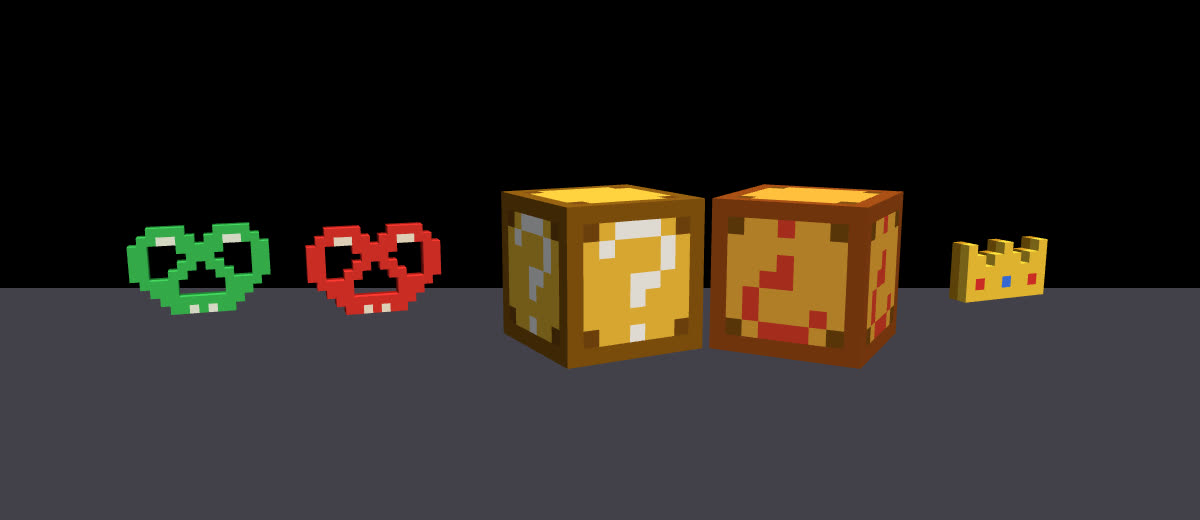
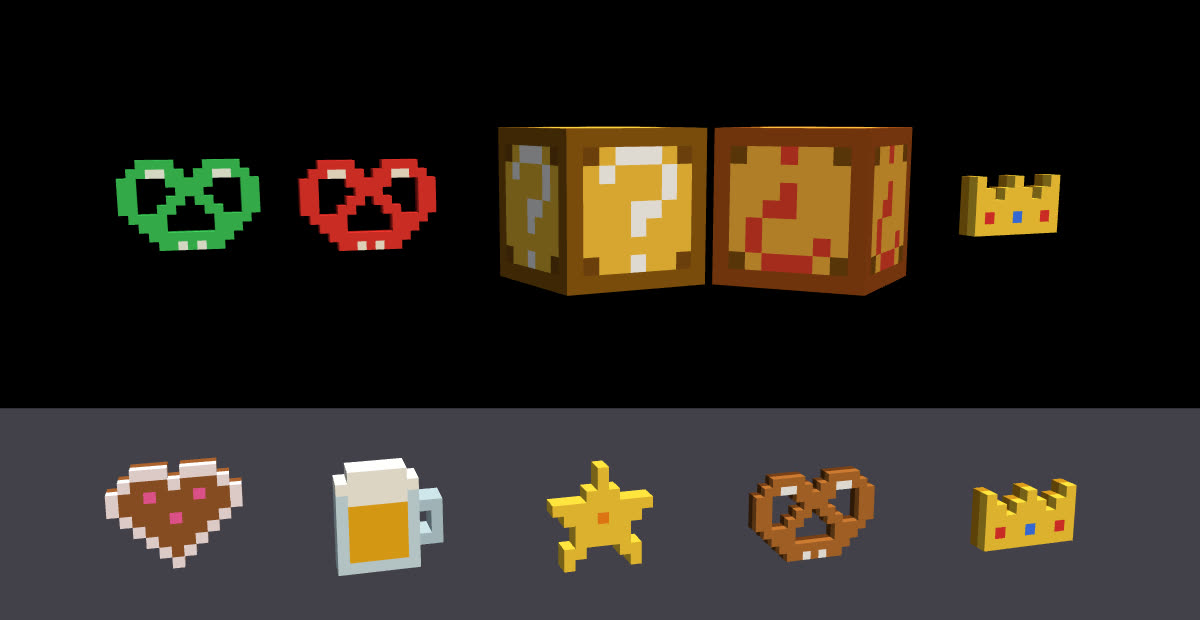
Runde 66 (Teil 1): Brezn-Orbits online, Voxel-Aufsaetze, Gluecksbrezn des Tages
- Kreisende Brezn reisen in den Kart-Flags mit; Treffer prueft jeder fuer seine eigenen Karts
- Aufsaetze (Lebkuchenherz, Masskrug, Riesenbrezn, Pixel-Stern, Pixel-Krone) freischaltbar, im Menue waehlbar, online sichtbar
- Gluecksbrezn: einmal am Tag XP im Menue aufbrechen (Pixel-Brezn, Konfetti, Chip-Klang)
- Arena-Items um Brezn-Trio und Fake-Block erweitert, Krone gecacht, Hinweise im Menue ueber der Karte

Claude-Session: https://claude.ai/code/session_01MvaaxbMKtDadD42vm4yr1j

diff --git a/game.js b/game.js
@@ -11,17 +11,17 @@ import {navPick,navRepeat,isConsole} from './padnav.mjs';
 import {createDraftState,updateDraft} from './draft.mjs';
 import {WIZARD,inSection,castInterval,pickTarget,spellPos,stepSpell,spellHits} from './wizard.mjs';
 import {weatherPlan,calmPlan,weatherMix,weatherLook,wxGrip,wxWind,forecast,lapNews} from './weather.mjs';
-import {ACH,achById,recordRace,levelOf,pickRival,rivalBeaten,dailyChallenge,dailyDone,dayKey,DAILY_XP,ONLINE_MUL,ONLINE_DAILY_XP,ONLINE_UNLOCKS,onlineNext,streakUpdate,streakIfToday,streakXP} from './progress.mjs';
+import {ACH,achById,recordRace,levelOf,pickRival,rivalBeaten,dailyChallenge,dailyDone,dayKey,DAILY_XP,ONLINE_MUL,ONLINE_DAILY_XP,ONLINE_UNLOCKS,onlineNext,streakUpdate,streakIfToday,streakXP,TOPPERS,topperById,topperUnlocked,topperHint,topperFor,luckyReward,luckyReady} from './progress.mjs';
 import {STAMP,stamperState,stamperCrushes,stamperBlocks,fireballAt,CANNON,cannonLane,missileAt} from './hazards.mjs';
 import {OW,pswitchMission,pswitchPress,pswitchCollect,pswitchTick,timeLeft,slalomMission,slalomPass,ringsMission,ringsHit,ringsLand,progressAdd} from './ow.mjs';
 import {LOOP,loopSpec,loopFrame as loopFrameAt,agravSegments,agravRoll,agravRings} from './loop.mjs';
-import {NET_VER,MAX_PLAYERS,SEND_HZ,INTERP_MS,HEARTS,BATTLE_SECS,LOBBY_SECS,LOBBY_SOLO_SECS,LOBBY_GO_SECS,voteTally,lobbyReturnAt,battleHit,battleResult,makeCode,normCode,toLocal,toGlobal,assignSlots,packKart,unpackKart,F as NF,snapBuf,pushSnap,sampleSnap} from './net.mjs';
+import {orbitOf,NET_VER,MAX_PLAYERS,SEND_HZ,INTERP_MS,HEARTS,BATTLE_SECS,LOBBY_SECS,LOBBY_SOLO_SECS,LOBBY_GO_SECS,voteTally,lobbyReturnAt,battleHit,battleResult,makeCode,normCode,toLocal,toGlobal,assignSlots,packKart,unpackKart,F as NF,snapBuf,pushSnap,sampleSnap} from './net.mjs';
 import {LB_TOP,ttBoard,lbDraft,lbSerial,lbFilter,lbParse,lbRank,lbBetter} from './lb.mjs';
 import {CH,KMH,starsFor,challengeXP,recordBest,fmt,zoneState,zoneStep,zoneResult,driftState,driftStep,driftMul,jumpState,jumpStep} from './challenge.mjs';
 import {EMOJIS,QUICK,packChat,unpackChat,chatLimiter,pushLog} from './chat.mjs';
 import {CUPS,cupTracks,cupOf,trophyKey,trophyIcon,cupById} from './cups.mjs';
 import {MUD,onMud,mudSurf,mudDodge,BOULDER,boulderState,boulderHits} from './choco.mjs';
-import {voxelMesh,breznModel,qBlockModel,crownModel} from './voxel.mjs';
+import {voxelMesh,breznModel,qBlockModel,crownModel,topperModel,BREZN,pixels} from './voxel.mjs';
 import {TSU,tsunamiPhase,tsunamiSurf,waveFront} from './tsunami.mjs';
 import {TIDE,tideLevel,tideFlooded,tideRising,tideDryFor,SURF,surfFront,surfHits,ICE,iceSurf,curlOff,BLOCK,blockScale,SENT,sentinelState,sentinelSpan,sentinelHits,sentinelNextHot} from './surface.mjs';
 import {CANNON_T,SHRINK_T,MEGA_T,INK_T,HOP_T,miniTurbo,flattenSmall,blastHit,comboStep,racer,driveKart,turnCurve,advanceProgress,hitKart,collideKarts,maxCornerSpeed,angleDiff,lap,finish,ranking,activate,clamp,LAPS,rollItem,chargesFor,orbitCount,orbitBlock,loseSpores,addGpPoints,gpStandings,raceStars,gpPoints,MAX_SPORES,PHYS,CLASSES} from './core.mjs';
@@ -251,7 +251,12 @@ const KART_COLORS=[{c:0xff3b30,n:'Ruby / Rot'},{c:0xffc400,n:'Sunny / Gelb'},{c:
  {c:0x2f8cff,n:'Blitz / Blau',lvl:2},{c:0xff7a1a,n:'Lava / Orange',lvl:3},{c:0x22c55e,n:'Wald / Grün',lvl:5},{c:0xff5fc8,n:'Bonbon / Pink',lvl:7},{c:0xeef1f6,n:'Diamant / Weiß',lvl:10},
  // R65: nur durch Online-Rennen (Anzahl Online-Rennen, progress.mjs ONLINE_UNLOCKS)
  {c:0x5aa9ff,n:'Wiesn Blau-Weiß',onl:1},{c:0xa0602a,n:'Lebkuchen',onl:3},{c:0xff66aa,n:'Pixel-Pink',onl:5}];
-const onlRaces=()=>store.get('prog',{}).onl||0,hasCrown=()=>!!store.get('prog',{}).crown;
+const onlRaces=()=>store.get('prog',{}).onl||0;let crownMine=null;const hasCrown=()=>crownMine??(crownMine=!!store.get('prog',{}).crown);
+// R66: Aufsatz (Voxel-Kosmetik) - gewaehlt im Menue, freigeschaltet durch Stufe, Serie, Online-Rennen, Online-Sieg
+const TOPPER_IDS=new Set(TOPPERS.map(t=>t.id).filter(id=>id!=='none'));
+const topperMe=()=>({level:progLevel(),streakBest:store.get('streak',{}).best||0,onl:onlRaces(),crown:hasCrown()});
+let topperMine;const myTopper=()=>topperMine!==undefined?topperMine:(topperMine=topperFor(store.get('topper',null),topperMe()));
+const topperOk=t=>typeof t==='string'&&TOPPER_IDS.has(t)?t:null;
 const progLevel=()=>levelOf(store.get('prog',{xp:0}).xp||0).level;
 // R47 Spiegel-Modus (ab Fahrerstufe 3): das Bild wird gespiegelt (auch Schilder, wie im grossen Vorbild), die Lenkung
 // entsprechend umgedreht - Strecken und Physik bleiben gleich. Nicht im Zeitfahren und nicht im Wiesnland.
@@ -368,7 +373,7 @@ const persistentMats=new Set([cream,dark,white,gold,shieldMat,shieldRivalMat,fla
 // ---------------------------------------------------------------- GLB-Prototypen (Blender-MCP)
 const sharedGeo=new Set([flameGeo,shieldGeo]),sharedMat=new Set(),P={};
 // R65: Retro-Voxel-Modelle aus voxel.mjs (Brezn-Trio, Fake-Block, Pixel-Krone) - Geometrie einmal gebaut, danach geteilt
-const VOX_DEF={brezn_green:()=>breznModel('green'),brezn_red:()=>breznModel('red'),qfake:()=>qBlockModel(true),qreal:()=>qBlockModel(false),crown:()=>crownModel()},VOX_SIZE={brezn_green:.1,brezn_red:.1,qfake:.19,qreal:.19,crown:.13},voxCache={};
+const VOX_DEF={brezn_green:()=>breznModel('green'),brezn_red:()=>breznModel('red'),qfake:()=>qBlockModel(true),qreal:()=>qBlockModel(false),crown:()=>crownModel(),top_heart:()=>topperModel('heart'),top_mug:()=>topperModel('mug'),top_star:()=>topperModel('star'),top_brezn:()=>topperModel('brezn'),top_crown:()=>crownModel()},VOX_SIZE={brezn_green:.1,brezn_red:.1,qfake:.19,qreal:.19,crown:.13,top_heart:.12,top_mug:.12,top_star:.12,top_brezn:.09,top_crown:.13},voxCache={};
 const voxMat=new T.MeshLambertMaterial({vertexColors:true});persistentMats.add(voxMat);
 function voxGeo(k){if(voxCache[k])return voxCache[k];const m=VOX_DEF[k](),d=voxelMesh(m.vox,m.pal,VOX_SIZE[k]),g=new T.BufferGeometry();
  g.setAttribute('position',new T.BufferAttribute(d.positions,3));g.setAttribute('normal',new T.BufferAttribute(d.normals,3));g.setAttribute('color',new T.BufferAttribute(d.colors,3));g.setIndex(new T.BufferAttribute(d.indices,1));
@@ -1201,7 +1206,7 @@ const curbTex=canvasTex(8,64,(q)=>{q.fillStyle=theme.curbA;q.fillRect(0,0,8,32);
  {const lm=label('?','#ed6350','#fff9df',128,128),geo=new T.BufferGeometry();geo.setAttribute('position',new T.BufferAttribute(new Float32Array(boxes.length*3),3));boxQ=new T.Points(geo,new T.PointsMaterial({map:lm.map,size:1.1,transparent:true,depthWrite:false}));boxQ.frustumCulled=false;world.add(boxQ);lm.dispose();}
  bm('boxes');}
 // Neues Rennen auf derselben Strecke: Welt bleibt stehen, nur Fahrer & Zustand werden zurueckgesetzt (kein Ruckler beim Start)
-function resetRace(){ridePhoto=null;photoPending=false;clearGroup(actors,kartsG);orbitFx.clear();crownFx.clear();hazards=[];shots=[];bombs=[];stormFx=[];fworks=[];for(const sh of shocks){sh.t=9;sh.m.visible=false;}roulette=null;cer=null;shake=0;lastPlace=8;leadAt=-99;wrongT=0;
+function resetRace(){ridePhoto=null;photoPending=false;clearGroup(actors,kartsG);orbitFx.clear();topFx.clear();hazards=[];shots=[];bombs=[];stormFx=[];fworks=[];for(const sh of shocks){sh.t=9;sh.m.visible=false;}roulette=null;cer=null;shake=0;lastPlace=8;leadAt=-99;wrongT=0;
  for(let i=0;i<SKIDS;i++){skids[i].life=0;skidMesh.setMatrixAt(i,_zeroM);}skidMesh.instanceMatrix.needsUpdate=true;for(let i=0;i<SPARKS;i++){sparkPool[i].life=0;sparkMesh.setMatrixAt(i,_zeroM);}sparkMesh.instanceMatrix.needsUpdate=true;for(let i=0;i<PUFFS;i++){puffPool[i].life=0;puffMesh.setMatrixAt(i,_zeroM);}puffMesh.instanceMatrix.needsUpdate=true;
  for(const b of boxes)b.cooldown=0;for(const s of spores)s.cd=0;for(const r of rings)r.flash=0;for(const p of pads)p.squash=0;lightState=-2;setLights(0);
  placeRacers();drawMap();}
@@ -3869,22 +3874,28 @@ function greenStep(sh,dt){let hit=null;
  sh.g.rotation.y+=dt*16;
  if(hit)shellImpact({target:hit.id,owner:sh.owner,g:sh.g});else burst({mesh:sh.g},0x8beb73,8);return true;}
 // Kreisende Brezn: drei Pixel-Brezn um jedes Kart mit Brezn-Trio im Slot; wer sie beruehrt, dreht sich (kostet eine Ladung)
-const orbitFx=new Map(),crownFx=new Map();
-// R65: Pixel-Krone (erster Online-Sieg gegen einen Menschen) schwebt ueber dem Kart - online sehen sie alle Mitspieler
-function crownTick(r,now){const want=(r.id===0?hasCrown():!!r.crown)&&!!r.mesh&&state!=='menu'&&!isTT();let c=crownFx.get(r);
- if(!want){if(c)c.visible=false;return;}if(!c||!c.parent){c=voxObj('crown');actors.add(c);crownFx.set(r,c);}
+const orbitFx=new Map(),topFx=new Map();
+// R65/R66: Aufsatz (Pixel-Krone, Lebkuchenherz ...) schwebt ueber dem Kart - online sehen ihn alle Mitspieler.
+// Offline tragen ein paar KI-Fahrer auch einen, damit man sieht, was es zu holen gibt.
+const AI_TOPS=['heart','mug','brezn','star','crown'];
+function topperTick(r,now){if(r.topper===undefined)r.topper=r.id!==0&&!(net&&net.setup)&&(r.id*7)%10<3?AI_TOPS[r.id%AI_TOPS.length]:null;
+ const id=r.id===0?myTopper():r.topper,want=!!id&&!!r.mesh&&state!=='menu'&&!isTT();let c=topFx.get(r);
+ if(c&&(!want||c.userData.top!==id)){c.visible=false;if(want){actors.remove(c);topFx.delete(r);c=null;}}
+ if(!want)return;
+ if(!c||!c.parent){c=voxObj('top_'+id);c.userData.top=id;actors.add(c);topFx.set(r,c);}
  const p=r.mesh.position;c.visible=r.mesh.visible;c.position.set(p.x,p.y+3.1+Math.sin(now*3+r.id)*.12,p.z);c.rotation.y=now*1.4;}
 function updateOrbits(dt){const now=performance.now()*.001;
- for(const r of racers){crownTick(r,now);let n=r.net?(r.netOrbit||0):orbitCount(r);const k=r.net?r.netOrbitK:r.item;if(state!=='race'&&state!=='countdown'&&state!=='paused')n=0;
+ for(const r of racers){topperTick(r,now);let n=r.net?(r.netOrbit||0):orbitCount(r);const k=r.net?r.netOrbitK:r.item;if(state!=='race'&&state!=='countdown'&&state!=='paused')n=0;
   let fx=orbitFx.get(r);if(!n){if(fx)fx.g.visible=false;continue;}
   if(!fx||!fx.g.parent||fx.kind!==k){if(fx)actors.remove(fx.g);const g=new T.Group(),balls=[0,1,2].map(()=>{const m=voxObj(k==='red3'?'brezn_red':'brezn_green');g.add(m);return m;});actors.add(g);fx={g,balls,kind:k};orbitFx.set(r,fx);}
   const p=r.mesh.position;fx.g.visible=true;fx.g.position.set(p.x,p.y+.75,p.z);
   for(let i=0;i<3;i++){const b=fx.balls[i],a=now*5.2+i*TAU/3;b.visible=i<n;b.position.set(Math.sin(a)*1.9,Math.sin(now*9+i)*.12,Math.cos(a)*1.9);b.rotation.y=-a;}
-  if(r.net||!n||r.stun>0)continue;
-  // Beruehrung: anderes Kart in Reichweite einer Brezn (lokale Karts; Online-Gegner werden bei sich selbst geprueft)
-  for(const o of racers){if(o===r||o.finishTime!==null||o.out||o.stun>0||(o.orbitCd||0)>elapsed)continue;const dx=o.x-r.x,dz=o.z-r.z;if(dx*dx+dz*dz>7.5||Math.abs((o.y||0)-(r.y||0))>1.5)continue;
+  if(!n||r.stun>0)continue;
+  // Beruehrung: jedes Kart prueft nur Karts, die auf diesem Rechner gefahren werden (online prueft jeder seine eigenen -
+  // auch gegen die kreisenden Brezn der Mitspieler, deren Anzahl ueber die Kart-Flags mitkommt)
+  for(const o of racers){if(o===r||o.net||o.finishTime!==null||o.out||o.stun>0||(o.orbitCd||0)>elapsed)continue;const dx=o.x-r.x,dz=o.z-r.z;if(dx*dx+dz*dz>7.5||Math.abs((o.y||0)-(r.y||0))>1.5)continue;
    let near=false;for(let i=0;i<n;i++){const a=now*5.2+i*TAU/3,bx=r.x+Math.sin(a)*1.9-o.x,bz=r.z+Math.cos(a)*1.9-o.z;if(bx*bx+bz*bz<1.7){near=true;break;}}if(!near)continue;
-   o.orbitCd=elapsed+.8;orbitBlock(r);if(o.net)continue;
+   o.orbitCd=elapsed+.8;if(r.net)r.netOrbit=Math.max(0,n-1);else orbitBlock(r);
    if(o.shield>0){burst(o,0xffe263,10);continue;}if(orbitBlock(o)){burst(o,0x8beb73,10);continue;}
    hitKart(o,1.2,.4);spinOut(o,2,1.1);hitSpores(o);o.lastHitBy=r.id;o.lastHitT=elapsed;burst(o,k==='red3'?0xff6a5a:0x8beb73,14);
    if(o.id===0){stats.hitsTaken++;say('ouch');toast('BREZN-KLATSCHER!',1,'bad');shake=.35;SFX.hit();}else if(r.id===0){stats.hitsDealt++;toast('KLATSCH! 🥨',.9,'good');SFX.hit(.8);}}}}
@@ -4268,10 +4279,11 @@ function end(){document.body.classList.remove('mirror');elapsed=racers[0].finish
  if(rivalId!==null){stats.rivalBeaten=rivalBeaten(order.map(r=>r.id),rivalId);$('resultStats').insertAdjacentHTML('beforeend',`<div class="rival ${stats.rivalBeaten?'won':'lost'}"><span>⚔ Rivale ${racers[rivalId].name}</span><b>${stats.rivalBeaten?'GESCHLAGEN ✓':'vor dir'}</b></div>`);}
  {const ch=dailyChallenge(dayKey());if(!worldMode&&store.get('dailyDone','')!==ch.day&&dailyDone(ch,{track:selected,cc,place,finished:true,stats})){stats.daily=true;store.set('dailyDone',ch.day);dailyShown=null;setTimeout(()=>toast(`📅 TAGESAUFGABE GESCHAFFT! +${DAILY_XP} XP`,2,'good'),600);}}
  const onl=!!(net&&net.setup&&!worldMode),humansBeaten=onl&&net.humans?order.slice(place).filter(r=>r.id!==0&&net.humans.has(toGlobal(r.id,net.mySlot))).length:0,onlFirst=onl&&store.get('onlDay','')!==dayKey();if(onlFirst)store.set('onlDay',dayKey());
- const onl0=onlRaces(),crown0=hasCrown(),yday=dayKey(new Date(Date.now()-864e5)),stk=streakUpdate(store.get('streak',{}),dayKey(),yday);store.set('streak',{last:stk.last,days:stk.days,best:stk.best});
+ const topOpen0=new Set(TOPPERS.filter(t=>topperUnlocked(t,topperMe())).map(t=>t.id)),onl0=onlRaces(),crown0=hasCrown(),yday=dayKey(new Date(Date.now()-864e5)),stk=streakUpdate(store.get('streak',{}),dayKey(),yday);store.set('streak',{last:stk.last,days:stk.days,best:stk.best});
  showProgress(recordRace(store.get('prog',{xp:0,ach:[],done:[],won:[]}),{track:selected,cc,place,finished:true,stats:{...stats},mirror:raceMirror,assist:raceAssist,online:onl,humansBeaten,onlineFirst:onlFirst,streakDays:stk.fresh?stk.days:0}));
  if(stk.fresh&&stk.days>1)setTimeout(()=>toast(`🔥 WIESN-SERIE: ${stk.days} TAGE! +${streakXP(stk.days)} XP`,2,'good'),300);
- if(onl){const u=ONLINE_UNLOCKS.find(q=>q.n>onl0&&q.n<=onlRaces());if(u)setTimeout(()=>toast('🌐 FREIGESCHALTET: '+u.what,2.4,'good'),1400);if(onlFirst)setTimeout(()=>{toast(`🌐 ERSTES ONLINE-RENNEN HEUTE: +${ONLINE_DAILY_XP} XP`,2,'good');SFX.bonus();},500);if(!crown0&&hasCrown()){racers[0].crown=true;setTimeout(()=>{toast('👑 PIXEL-KRONE! Alle sehen sie ab jetzt über deinem Kart',2.6,'good');SFX.crown();},2200);}}
+ crownMine=null;topperMine=undefined;{const fresh=TOPPERS.filter(t=>!topOpen0.has(t.id)&&topperUnlocked(t,topperMe()));fresh.forEach((t,i)=>setTimeout(()=>{toast(`🎁 NEUER AUFSATZ: ${t.icon} ${t.n}`,2.4,'good');SFX.bonus();},2600+i*1400));if(fresh.length)menuToppers();}
+ if(onl){const u=ONLINE_UNLOCKS.find(q=>q.n>onl0&&q.n<=onlRaces());if(u)setTimeout(()=>toast('🌐 FREIGESCHALTET: '+u.what,2.4,'good'),1400);if(onlFirst)setTimeout(()=>{toast(`🌐 ERSTES ONLINE-RENNEN HEUTE: +${ONLINE_DAILY_XP} XP`,2,'good');SFX.bonus();},500);crownMine=null;if(!crown0&&hasCrown()){racers[0].crown=true;setTimeout(()=>{toast('👑 PIXEL-KRONE! Alle sehen sie ab jetzt über deinem Kart',2.6,'good');SFX.crown();},2200);}}
  if(gp.active){const gained={};order.forEach((r,i)=>gained[r.id]=gpPoints(i,order.length));addGpPoints(gp.points,order);$('resultEyebrow').textContent=`${gpName().toUpperCase()} ${ccName(cc).toUpperCase()} · RENNEN ${gp.race+1} / ${gpN()}`;
   gpStandings(gp.points,racers.map(r=>r.id)).forEach((id,i)=>{const li=document.createElement('li');if(id===0)li.className='me';li.innerHTML=`<span>${i+1}.</span><span>${racers[id].name}</span><span class="gain">+${gained[id]}</span><span>${gp.points[id]} P</span>`;board.append(li);});
   $('again').textContent=gp.race<gpN()-1?'Nächstes Rennen →':'Zur Siegerehrung 🏆';if(gp.race<gpN()-1)say('gpnext');}
@@ -4699,9 +4711,30 @@ $('mirrorBtn').onclick=()=>{if(progLevel()<MIRROR_LVL){toast(`🔒 Spiegel-Modus
 $('start').onclick=()=>{if(mode==='online'){openOnline();$('onQuick')?.click();return;}gp=newGp(mode==='gp');start();};
 // R65: einfaches Startmenue (Nutzerwunsch "Menue am Anfang zu abschreckend"): Online, Schnelles Rennen, Fahrer, Tagesaufgabe -
 // alles andere hinter "Alle Modi". Wer das volle Menue aufmacht, bekommt es beim naechsten Mal wieder (merkt sich das Spiel).
+// R66: Aufsatz-Wahl im Menue (Fahrer-Karte): gesperrte zeigen, womit man sie bekommt
+function menuToppers(){const box=$('toppers');if(!box)return;const me=topperMe(),cur=myTopper()||'none';box.replaceChildren();
+ for(const t of TOPPERS){const ok=topperUnlocked(t,me),b=document.createElement('button');b.type='button';b.className='top'+(ok?'':' locked')+(t.id===cur?' selected':'');b.textContent=t.icon;
+  b.title=ok?t.n:`${t.n} – ${topperHint(t)}`;b.setAttribute('aria-label',b.title);b.setAttribute('aria-pressed',String(t.id===cur));
+  b.onclick=()=>{if(!ok){toast(`🔒 ${t.n}: ${topperHint(t)}`,1.8);SFX.wrong();return;}store.set('topper',t.id);topperMine=undefined;SFX.select();toast(t.id==='none'?'Ohne Aufsatz':`${t.icon} ${t.n} – schwebt über deinem Kart`,1.4);menuToppers();};
+  box.append(b);}}
+menuToppers();
+// R66: Taegliche Gluecksbrezn - Pixel-Brezn im einfachen Menue, einmal am Tag aufbrechen
+function pixelCanvas(rows,pal,px=4){const w=Math.max(...rows.map(r=>r.length)),c=document.createElement('canvas');c.width=w*px;c.height=rows.length*px;const q=c.getContext('2d');
+ for(const [x,y,col] of pixels(rows,pal)){q.fillStyle='#'+col.toString(16).padStart(6,'0');q.fillRect(x*px,y*px,px,px);}return c;}
+function luckyRefresh(){const b=$('lucky');if(!b)return;const ready=luckyReady(store.get('luckyDay',''),dayKey());b.hidden=!ready;
+ if(ready&&!b.querySelector('canvas'))b.prepend(pixelCanvas(BREZN,{B:0xc07a34,s:0xffffff},4));}
+function luckyOpen(){const b=$('lucky');if(!luckyReady(store.get('luckyDay',''),dayKey()))return;store.set('luckyDay',dayKey());
+ const xp=luckyReward(),pr=store.get('prog',{xp:0,ach:[],done:[],won:[]}),l0=levelOf(pr.xp||0).level;pr.xp=(pr.xp||0)+xp;store.set('prog',pr);const l1=levelOf(pr.xp).level;
+ b.classList.add('open');SFX.bonus();const r=b.getBoundingClientRect();
+ for(let i=0;i<18;i++){const d=document.createElement('i');d.className='lucky-px';const a=i/18*TAU;d.style.left=(r.left+r.width*.18)+'px';d.style.top=(r.top+r.height/2)+'px';
+  d.style.setProperty('--dx',Math.cos(a)*(60+Math.random()*50)+'px');d.style.setProperty('--dy',Math.sin(a)*(40+Math.random()*40)-30+'px');d.style.background=['#ffd23a','#c07a34','#ffffff','#3cc85a','#e8352e'][i%5];document.body.append(d);setTimeout(()=>d.remove(),950);}
+ toast(`🥨 GLÜCKSBREZN: +${xp} XP${xp>=250?' – JACKPOT!':''}`,2.2,'good');
+ if(l1>l0)setTimeout(()=>{toast(`⬆ FAHRERSTUFE ${l1}!`,2,'good');playClip('s_c_levelup',sfxGain,.9);},1200);
+ topperMine=undefined;setTimeout(()=>{b.classList.remove('open');refreshMenu();luckyRefresh();},900);}
+$('lucky').onclick=luckyOpen;luckyRefresh();
 function menuSimple(on){document.body.classList.toggle('menu-simple',on);store.set('menuFull',!on);quickRefresh();}
 function pickMode(m){const b=document.querySelector(`#modes .mode[data-mode="${m}"]`);if(b&&mode!==m)b.click();}
-function quickRefresh(){const c=courseAt(selected);if(c&&!c.openWorld)setText('qRaceSub',`${c.icon} ${c.name} · ${ccName(cc)}`);
+function quickRefresh(){menuToppers();luckyRefresh();const c=courseAt(selected);if(c&&!c.openWorld)setText('qRaceSub',`${c.icon} ${c.name} · ${ccName(cc)}`);
  const onl=onlRaces(),nx=onlineNext(onl),first=store.get('onlDay','')!==dayKey();
  setText('qOnlineBadge',first?`+${ONLINE_DAILY_XP} XP heute`:`×${ONLINE_MUL} XP`);
  {const st=store.get('streak',{}),y=dayKey(new Date(Date.now()-864e5)),d=streakIfToday(st,dayKey(),y);setText('qStreak',st.last===dayKey()?`🔥 Wiesn-Serie: ${st.days} ${st.days===1?'Tag':'Tage'} – morgen wieder fahren!`:`🔥 Erstes Rennen heute: +${streakXP(d)} XP${d>1?` (Serie Tag ${d})`:''}`);}
@@ -5119,16 +5152,16 @@ async function netOpen(code,host,quick,pub){netLeave(true);netMsg('Verbinde …'
  let room;try{room=TR.joinRoom(strat==='nostr'?{appId:NET_APP,relayConfig:{urls:netRelays(),warnOnRelayFailure:false}}:{appId:NET_APP},'wk-'+code);}catch(e){netMsg('Verbindung fehlgeschlagen.');return;}
  const A={};for(const k of ['hello','lobby','setup','ready','go','st','item','bt','humans','chat','vote','lob'])A[k]=room.makeAction(k);
  net={room,A,code,host,pub:pub||null,selfId:TR.selfId,mySlot:host?0:-1,peers:new Map(),slots:new Map(),hostId:host?TR.selfId:null,lobby:null,setup:null,humans:new Map(),go:false,readySent:false,ready:new Set(),bufs:new Map(),sendT:0,goT:0,what:'world',track:0,humFinT:{},cycle:false,waiting:false,lobS:null,lobT:null};
- const hello=()=>({n:myNetName(),d:driverIndex,c:colorIndex,k:hasCrown()?1:0,v:NET_VER});
+ const hello=()=>({n:myNetName(),d:driverIndex,c:colorIndex,k:hasCrown()?1:0,t:myTopper(),v:NET_VER});
  room.onPeerJoin=id=>{if(!net)return;A.hello.send(hello(),{target:id}).catch(()=>{});if(net.host)netLobby();};
  room.onPeerLeave=id=>netPeerLeft(id);
  A.hello.onMessage=(d,{peerId})=>{if(!net||!d||typeof d!=='object')return;if(d.v!==NET_VER){if(net.host)netMsg('Ein Gast hat eine andere Spielversion – bitte neu laden.');return;}
-  const known=net.peers.has(peerId);net.peers.set(peerId,{n:cleanName(d.n)||'Gast',d:clampInt(d.d,0,DRIVERS.length-1),c:clampInt(d.c,0,KART_COLORS.length-1),k:d.k?1:0});if(!known)chatSys(`👋 ${cleanName(d.n)||'Gast'} ist dabei`);if(net.host){netLobby();netDropIn(peerId);}netRenderLobby();};
+  const known=net.peers.has(peerId);net.peers.set(peerId,{n:cleanName(d.n)||'Gast',d:clampInt(d.d,0,DRIVERS.length-1),c:clampInt(d.c,0,KART_COLORS.length-1),k:d.k?1:0,t:topperOk(d.t)});if(!known)chatSys(`👋 ${cleanName(d.n)||'Gast'} ist dabei`);if(net.host){netLobby();netDropIn(peerId);}netRenderLobby();};
  A.lobby.onMessage=(d,{peerId})=>{if(!net||!d||!Array.isArray(d.p))return;
   // Zwei Hosts im selben Raum (Schnell-online, beide starteten mit Bots): die kleinere Kennung bleibt Host, der andere
   // wechselt ohne neue Verbindung zum Gast und laesst sich per erneutem Hallo in die laufende Runde setzen
   if(net.host){if(String(peerId)<String(net.selfId)){net.host=false;net.hostId=peerId;net.slots=new Map();toast('Offene Runde gefunden – du steigst ein',1.6,'good');
-    net.A.hello.send({n:myNetName(),d:driverIndex,c:colorIndex,k:hasCrown()?1:0,v:NET_VER},{target:peerId}).catch(()=>{});}else return;}
+    net.A.hello.send({n:myNetName(),d:driverIndex,c:colorIndex,k:hasCrown()?1:0,t:myTopper(),v:NET_VER},{target:peerId}).catch(()=>{});}else return;}
   if(net.quickT){clearTimeout(net.quickT);net.quickT=0;}net.hostId=peerId;
   net.lobby={p:d.p.slice(0,MAX_PLAYERS).map(q=>({id:String(q.id),s:clampInt(q.s,0,MAX_PLAYERS-1),n:cleanName(q.n)||'Gast',d:clampInt(q.d,0,DRIVERS.length-1),c:clampInt(q.c,0,KART_COLORS.length-1)})),w:d.w==='race'?'race':'world',t:clampInt(d.t,0,courses.length-1),cc:[50,100,150].includes(d.cc)?d.cc:100};
   net.lobby.st=d.st==='race'||d.st==='world'?d.st:'menu';
@@ -5161,7 +5194,7 @@ function netLeave(silent){if(!net)return;if(net.quickT)clearTimeout(net.quickT);
  try{const u=new URL(location.href);u.searchParams.delete('room');history.replaceState(null,'',u.toString());}catch{}
  if(!silent)netMsg('');netRenderLobby();}
 function netLobby(){if(!net?.host)return;net.slots=assignSlots([...net.peers.keys()],net.slots);
- const p=[{id:net.selfId,s:0,n:myNetName(),d:driverIndex,c:colorIndex,k:hasCrown()?1:0}];for(const [id,s] of net.slots){const q=net.peers.get(id);if(q)p.push({id,s,n:q.n,d:q.d,c:q.c,k:q.k?1:0});}
+ const p=[{id:net.selfId,s:0,n:myNetName(),d:driverIndex,c:colorIndex,k:hasCrown()?1:0,t:myTopper()}];for(const [id,s] of net.slots){const q=net.peers.get(id);if(q)p.push({id,s,n:q.n,d:q.d,c:q.c,k:q.k?1:0,t:q.t||null});}
  net.lobby={p,w:net.what,t:net.track,cc,st:net.setup?(net.setup.w?'world':'race'):'menu'};net.A.lobby.send(net.lobby).catch(()=>{});netRenderLobby();}
 function netHostGo(){if(!net?.host)return;netLobby();const L=net.lobby,world=L.w!=='race';
  net.cycle=L.w!=='battle';const setup={w:world?1:0,b:L.w==='battle'?1:L.w==='world'?2:0,lob:L.w==='world'?1:0,cyc:net.cycle?1:0,n:world?8:FIELD_MAX,t:L.t,cc:L.cc,wx:(Math.random()*4294967296)>>>0,p:L.p,k:Date.now()};
@@ -5209,7 +5242,7 @@ function netRecvState(d,peerId){if(!net?.setup||!Array.isArray(d))return;const n
   const id=toLocal(s.slot,net.mySlot);let b=net.bufs.get(id);if(!b)net.bufs.set(id,b=snapBuf());pushSnap(b,now,s);}}
 function netDrive(r,dt){const b=net?.bufs.get(r.id),s=b&&sampleSnap(b,performance.now()-INTERP_MS);
  if(s){r.x=s.x;r.y=s.y;r.z=s.z;r.h=s.h;r.speed=s.speed;r.vx=Math.sin(s.h)*s.speed;r.vz=Math.cos(s.h)*s.speed;r.distance=s.distance;r.offset=s.offset;const f=s.flags;
-  r.driftDir=f&NF.drift?(f&NF.driftR?1:-1):0;r.boost=f&NF.boost?.25:0;r.air=!!(f&NF.air);r.stun=f&NF.stun?.25:0;r.shield=f&NF.shield?1:0;r.mega=f&NF.mega?1:0;r.shrink=f&NF.shrink?1:0;r.braking=!!(f&NF.brake);
+  r.driftDir=f&NF.drift?(f&NF.driftR?1:-1):0;r.boost=f&NF.boost?.25:0;r.air=!!(f&NF.air);r.stun=f&NF.stun?.25:0;r.shield=f&NF.shield?1:0;r.mega=f&NF.mega?1:0;r.shrink=f&NF.shrink?1:0;r.braking=!!(f&NF.brake);{const o=orbitOf(f);r.netOrbit=o.n;r.netOrbitK=o.red?'red3':'green3';}
   if(s.fin!==null&&r.finishTime===null&&!worldMode)r.finishTime=s.fin;r.mesh.visible=true;
   if(battle&&s.hearts!==null&&s.hearts!==r.hearts){const lost=r.hearts>s.hearts;r.hearts=s.hearts;r.out=s.hearts===0;heartTag(r);if(lost)heartPop(r);}
   else if(battle&&battle.open&&s.hearts===null&&r.hearts!==undefined){r.hearts=undefined;r.out=false;heartTag(r);}}
@@ -5245,9 +5278,9 @@ function netDropIn(peerId){const S=net.setup;if(!S||(state!=='race'&&state!=='co
   take={d:+r.distance.toFixed(2),o:+r.offset.toFixed(2),h:+r.h.toFixed(3),sp:+Math.max(0,r.speed).toFixed(2),el:+elapsed.toFixed(2),st:state==='race'?1:0};}
  net.A.setup.send({...S,late:1,take},{target:peerId}).catch(()=>{});}
 // Wer faehrt welchen Platz (nach Ein- und Ausstiegen): Namensschilder und Besitz der Karts nachziehen
-function netHumans(list){const p=list.slice(0,MAX_PLAYERS).map(q=>({id:String(q.id),s:clampInt(q.s,0,MAX_PLAYERS-1),n:cleanName(q.n)||'Gast',d:clampInt(q.d,0,DRIVERS.length-1),c:clampInt(q.c,0,KART_COLORS.length-1),k:q.k?1:0}));
+function netHumans(list){const p=list.slice(0,MAX_PLAYERS).map(q=>({id:String(q.id),s:clampInt(q.s,0,MAX_PLAYERS-1),n:cleanName(q.n)||'Gast',d:clampInt(q.d,0,DRIVERS.length-1),c:clampInt(q.c,0,KART_COLORS.length-1),k:q.k?1:0,t:topperOk(q.t)}));
  net.setup.p=p;net.humans=new Map(p.map(q=>[q.s,q]));
- for(const r of racers){if(r.id===0)continue;const g=toGlobal(r.id,net.mySlot),h=net.humans.get(g);r.net=!!h||!net.host;r.crown=!!h?.k;r.name=h?h.n:(AI_NAMES[g]||'Bot');netTag(r,h?h.n:'');}}
+ for(const r of racers){if(r.id===0)continue;const g=toGlobal(r.id,net.mySlot),h=net.humans.get(g);r.net=!!h||!net.host;r.topper=h?(h.t||(h.k?'crown':null)):null;r.name=h?h.n:(AI_NAMES[g]||'Bot');netTag(r,h?h.n:'');}}
 // ---------------------------------------------------------------- R55 Herzerl-Schlacht (Wiesnland online, auch mit Bots)
 // Jedes Kart traegt drei Lebkuchenherzen; schwere Treffer (Items, Stampfer, Blitz ...) kosten eins, wer keine mehr hat,
 // faehrt als Zuschauer weiter. Es gewinnt, wer zuletzt noch Herzen hat - nach 3 Minuten, wer die meisten hat.
@@ -5369,7 +5402,7 @@ function arenaPlace(){const A=arenaOn()&&course._arena;if(!A)return;let k=0;cons
 function arenaWall(r){const A=course._arena,dx=r.x-A.x,dz=r.z-A.z,d=Math.hypot(dx,dz),lim=A.r-.8;if(d<=lim)return;
  const nx=dx/d,nz=dz/d;r.x=A.x+nx*lim;r.z=A.z+nz*lim;const vn=r.vx*nx+r.vz*nz;if(vn>0){r.vx-=nx*vn*1.4;r.vz-=nz*vn*1.4;if(r.id===0&&vn>6)SFX.bump(clamp(vn/25,.2,.7));}}
 // R58: in der Arena nur Angriffs-Items (Such-Brezn, Pilzbombe, Banane als Falle, Riesenwuchs) - kein Turbo, kein Mass Bier
-function arenaRoll(){const pool=['shell','shell','shell','shell','bomb','bomb','bomb','banana','banana','mega'];return pool[Math.floor(Math.random()*pool.length)];}
+function arenaRoll(){const pool=['shell','shell','shell','red3','green3','green3','bomb','bomb','bomb','banana','fake','mega'];return pool[Math.floor(Math.random()*pool.length)];}
 function arenaPickup(r){const A=course._arena;for(const b of A.boxes){if(b.cool>0)continue;const dx=r.x-b.x,dz=r.z-b.z;if(dx*dx+dz*dz>5.8)continue;
   b.cool=5;b.g.visible=false;burst({mesh:b.g},0xffd452,12);if(r.item||r.itemPending)continue;
   if(r.id===0){r.itemPending=true;roulette={t:.8,tick:0,final:arenaRoll()};SFX.pickup();}else{r.item=arenaRoll();r.charges=chargesFor(r.item);r.cooldown=.6+Math.random()*1.4;}}}

diff --git a/index.html b/index.html
@@ -4,12 +4,12 @@
 <header><a class="brand" href="./"><span class="brand-icon">✿</span><span class="brand-name">WIESN KART</span></a><div class="top-actions"><button id="netBtn" type="button" hidden aria-label="Online-Fenster öffnen">🌐</button><button id="chatBtn" type="button" hidden aria-label="Chat öffnen (Taste T)">💬</button><button id="sound" aria-label="Ton ausschalten">♪ AN</button><button id="pause" hidden>Ⅱ<span class="lbl"> PAUSE</span></button><button id="full" aria-label="Vollbild">⛶</button></div></header>
 <section id="menu"><div class="menu-panel">
  <div class="menu-brand"><span class="mb-icon">🥨</span><div><h1 class="menu-title">Suppa <em>Lederhosn</em> Karts</h1><p class="menu-tag">Wiesn Kart · Kleine Karts. Große Gaudi.</p></div><button id="onlineBtn" class="online-btn" type="button" aria-label="Online mit Freunden fahren"><span>🌐</span><b>Online</b><small>mit Freunden</small></button></div>
- <div id="quick" class="quick"><button id="qOnline" class="q-btn q-online" type="button"><i>🌐</i><span><b>Online fahren</b><small id="qOnlineSub">Mit Freunden &amp; der ganzen Wiesn</small></span><em id="qOnlineBadge">×2 XP</em></button><button id="qRace" class="q-btn q-race" type="button"><i>🏁</i><span><b>Schnelles Rennen</b><small id="qRaceSub">gegen die Computer-Fahrer</small></span></button><button id="qMore" class="q-more" type="button">☰ Alle Modi, Strecken &amp; Einstellungen</button><p class="q-hint" id="qHint"></p><p class="q-hint q-streak" id="qStreak"></p></div>
+ <div id="quick" class="quick"><button id="qOnline" class="q-btn q-online" type="button"><i>🌐</i><span><b>Online fahren</b><small id="qOnlineSub">Mit Freunden &amp; der ganzen Wiesn</small></span><em id="qOnlineBadge">×2 XP</em></button><button id="qRace" class="q-btn q-race" type="button"><i>🏁</i><span><b>Schnelles Rennen</b><small id="qRaceSub">gegen die Computer-Fahrer</small></span></button><button id="lucky" class="lucky" type="button" hidden><span><b>Glücksbrezn des Tages</b><small>Tippen zum Aufbrechen – XP geschenkt!</small></span></button><button id="qMore" class="q-more" type="button">☰ Alle Modi, Strecken &amp; Einstellungen</button><p class="q-hint" id="qHint"></p><p class="q-hint q-streak" id="qStreak"></p></div>
  <button id="qBack" class="q-back" type="button">← Einfaches Menü</button>
  <div id="modes" class="seg" role="group" aria-label="Modus"><button class="mode mode-online" data-mode="online" aria-pressed="false"><b>🌐 Online</b></button><button class="mode selected" data-mode="single" aria-pressed="true"><b>Rennen</b></button><button class="mode" data-mode="gp" aria-pressed="false"><b>Grand Prix</b></button><button class="mode" data-mode="tt" aria-pressed="false"><b>Zeitfahren</b></button><button class="mode" data-mode="roam" aria-pressed="false"><b>Wiesnland</b></button><button class="mode" data-mode="world" aria-pressed="false" aria-label="Kotzhügel Fight"><b>Kotzhügel<span class="m-long"> Fight</span></b></button></div>
  <div id="classes" class="seg" role="group" aria-label="Klasse"><button class="cls" data-cc="50"><b>Locker</b></button><button class="cls" data-cc="100"><b>Flott</b></button><button class="cls" data-cc="150"><b>Wild</b></button><button id="mirrorBtn" class="mirror-btn" type="button" aria-pressed="false">🪞 <b>Spiegel</b></button></div>
  <div id="tracks"></div>
- <div class="menu-picks"><div class="pick"><small>FAHRER</small><div id="drivers" aria-label="Fahrerfigur"></div></div><div class="pick"><small>KART</small><div id="colors" aria-label="Kartfarbe"></div><div id="kstyle" class="kstyle" role="group" aria-label="Karosserie"></div></div><div class="pick"><small>LENKHILFE</small><div id="assist" aria-label="Lenkhilfe"></div></div><div class="pick gfx-pick"><small>GRAFIK</small><div id="gfx" aria-label="Grafikstufe"></div><button id="crtBtn" type="button" aria-pressed="false" title="Röhrenfernseher-Look: Wölbung, Scanlines, Farbsäume">📺 CRT</button></div></div>
+ <div class="menu-picks"><div class="pick"><small>FAHRER</small><div id="drivers" aria-label="Fahrerfigur"></div><div class="top-row"><small>AUFSATZ</small><div id="toppers" aria-label="Aufsatz über dem Kart"></div></div></div><div class="pick"><small>KART</small><div id="colors" aria-label="Kartfarbe"></div><div id="kstyle" class="kstyle" role="group" aria-label="Karosserie"></div></div><div class="pick"><small>LENKHILFE</small><div id="assist" aria-label="Lenkhilfe"></div></div><div class="pick gfx-pick"><small>GRAFIK</small><div id="gfx" aria-label="Grafikstufe"></div><button id="crtBtn" type="button" aria-pressed="false" title="Röhrenfernseher-Look: Wölbung, Scanlines, Farbsäume">📺 CRT</button></div></div>
  <button id="start"><b>Los geht's</b><span>→</span></button>
  <div class="menu-meta"><button id="achBtn" class="ach-btn" type="button">🏅 ERFOLGE <small id="achBtnLvl"></small></button><small id="trophies"></small><p class="controls"><kbd>WASD</kbd> <kbd>SHIFT</kbd> Hopsen &amp; Drift <kbd>SPACE</kbd> Item</p></div>
 </div></section>

diff --git a/style.css b/style.css
@@ -1601,3 +1601,30 @@ body.menu-simple .menu-title{font-size:clamp(26px,6.5vw,40px)}
  .q-more{padding:6px 10px;font-size:12px}
  body.menu-simple #menu .menu-meta{display:none}
 }
+/* R66: Aufsatz-Wahl (Voxel-Kosmetik) in der Fahrer-Karte */
+#menu .top-row{display:flex;align-items:center;gap:8px;margin-top:8px;flex-wrap:wrap}
+#menu .top-row>small{font-family:var(--wk-font);font-style:italic;font-weight:900;font-size:10px;letter-spacing:1px;color:#14264a99}
+#menu #toppers{display:flex;gap:5px;flex-wrap:wrap}
+#menu #toppers button{width:34px;height:34px;margin:0;padding:0;border-radius:10px;border:2px solid #14264a33;background:#fff;font-size:17px;line-height:1;cursor:pointer;position:relative}
+#menu #toppers button.selected{border-color:var(--wk-ink);background:var(--wk-yellow);box-shadow:0 3px 0 var(--wk-ink)}
+#menu #toppers button.locked{filter:grayscale(1);opacity:.45}
+#menu #toppers button.locked:after{content:'🔒';position:absolute;right:-4px;bottom:-5px;font-size:10px;filter:none}
+body.menu-simple #menu .top-row{justify-content:center}
+@media (max-height:520px){#menu #toppers button{width:28px;height:28px;font-size:14px}#menu .top-row{margin-top:5px}}
+/* R66: Gluecksbrezn des Tages (Pixel-Brezn aus voxel.mjs, 2D gezeichnet) */
+.lucky{display:flex;align-items:center;gap:12px;margin:0;padding:8px 14px;border-radius:16px;border:2.5px solid var(--wk-ink);background:linear-gradient(100deg,#fff4c9,#ffe08a);color:var(--wk-ink);
+ box-shadow:0 4px 0 var(--wk-ink);cursor:pointer;text-align:left;animation:luckyWob 2.4s ease-in-out infinite}
+.lucky[hidden]{display:none}
+.lucky canvas{image-rendering:pixelated;width:60px;height:40px;flex:none;filter:drop-shadow(0 2px 0 #0004)}
+.lucky span{display:flex;flex-direction:column}
+.lucky b{font-family:var(--wk-font);font-style:italic;font-weight:900;font-size:16px}
+.lucky small{font-weight:700;font-size:11.5px;color:#14264ab0}
+.lucky.open{animation:luckyPop .8s ease-out}
+.lucky.padf,.lucky:hover{transform:translateY(-2px)}
+@keyframes luckyWob{0%,86%,100%{transform:rotate(0)}89%{transform:rotate(-2.5deg)}92%{transform:rotate(2.5deg)}95%{transform:rotate(-1.5deg)}}
+@keyframes luckyPop{0%{transform:scale(1)}30%{transform:scale(1.08) rotate(-3deg)}60%{transform:scale(.96) rotate(2deg)}100%{transform:scale(1);opacity:.4}}
+.lucky-px{position:fixed;width:8px;height:8px;z-index:60;pointer-events:none;animation:luckyPx .9s cubic-bezier(.2,.7,.3,1) forwards;box-shadow:0 0 0 1px #14264a}
+@keyframes luckyPx{to{transform:translate(var(--dx),var(--dy)) rotate(90deg);opacity:0}}
+@media (max-height:520px){.lucky{grid-column:1/-1;padding:5px 10px}.lucky canvas{width:45px;height:30px}.lucky b{font-size:13px}.lucky small{font-size:10px}}
+/* R66: Hinweise (Gluecksbrezn, Aufsatz, gesperrt) auch im Menue ueber der Karte */
+body:not(.racing) #toast{z-index:70;top:auto;bottom:calc(18px + env(safe-area-inset-bottom,0px));font-size:22px;-webkit-text-stroke:5px var(--wk-ink);max-width:92vw;white-space:normal;text-align:center}

diff --git a/art/r65/voxel_preview.html b/art/r65/voxel_preview.html
@@ -3,14 +3,15 @@
 <script type="module">
 // R65: Vorschau der Laufzeit-Voxel-Modelle aus voxel.mjs (Aufruf ueber server.cjs: /art/r65/voxel_preview.html)
 import * as T from '../../vendor/three.module.js';
-import {voxelMesh, breznModel, qBlockModel, crownModel} from '../../voxel.mjs';
-const W = 1200, H = 520, r = new T.WebGLRenderer({antialias: true}); r.setSize(W, H); r.outputColorSpace = T.SRGBColorSpace; document.body.appendChild(r.domElement);
-const sc = new T.Scene(), cam = new T.PerspectiveCamera(30, W / H, .1, 100); cam.position.set(0, 2.6, 11); cam.lookAt(0, .6, 0);
+import {voxelMesh, breznModel, qBlockModel, crownModel, topperModel} from '../../voxel.mjs';
+const W = 1200, H = 620, r = new T.WebGLRenderer({antialias: true}); r.setSize(W, H); r.outputColorSpace = T.SRGBColorSpace; document.body.appendChild(r.domElement);
+const sc = new T.Scene(), cam = new T.PerspectiveCamera(30, W / H, .1, 100); cam.position.set(0, 2.2, 13); cam.lookAt(0, 0, 0);
 sc.add(new T.HemisphereLight(0xffffff, 0x5a6472, 2.3)); const dl = new T.DirectionalLight(0xfff2dc, 2.4); dl.position.set(3, 5, 4); sc.add(dl);
-const ground = new T.Mesh(new T.PlaneGeometry(30, 12), new T.MeshLambertMaterial({color: 0x3a3a44})); ground.rotation.x = -Math.PI / 2; ground.position.y = -1; sc.add(ground);
+const ground = new T.Mesh(new T.PlaneGeometry(30, 12), new T.MeshLambertMaterial({color: 0x3a3a44})); ground.rotation.x = -Math.PI / 2; ground.position.y = -2.7; sc.add(ground);
 const mat = new T.MeshLambertMaterial({vertexColors: true});
 const mk = (m, size) => {const d = voxelMesh(m.vox, m.pal, size), g = new T.BufferGeometry(); g.setAttribute('position', new T.BufferAttribute(d.positions, 3)); g.setAttribute('normal', new T.BufferAttribute(d.normals, 3)); g.setAttribute('color', new T.BufferAttribute(d.colors, 3)); g.setIndex(new T.BufferAttribute(d.indices, 1)); return new T.Mesh(g, mat);};
 const items = [[breznModel('green'), .1, -4.6, .35], [breznModel('red'), .1, -2.6, .35], [qBlockModel(false), .19, 0, .5], [qBlockModel(true), .19, 2.4, -.5], [crownModel(), .13, 4.6, .4]];
-for (const [m, s, x, ry] of items) {const o = mk(m, s); o.position.set(x, .5, 0); o.rotation.y = ry; sc.add(o);}
+for (const [id, x] of [['heart', -4.4], ['mug', -2.2], ['star', 0], ['brezn', 2.2], ['crown', 4.4]]) {const o = mk(topperModel(id), id === 'brezn' ? .09 : .12); o.position.set(x, -1.9, 1.5); o.rotation.y = .3; sc.add(o);}
+for (const [m, s, x, ry] of items) {const o = mk(m, s); o.position.set(x, 1.2, 0); o.rotation.y = ry; sc.add(o);}
 r.render(sc, cam); window.done = true;
 </script></body></html>
